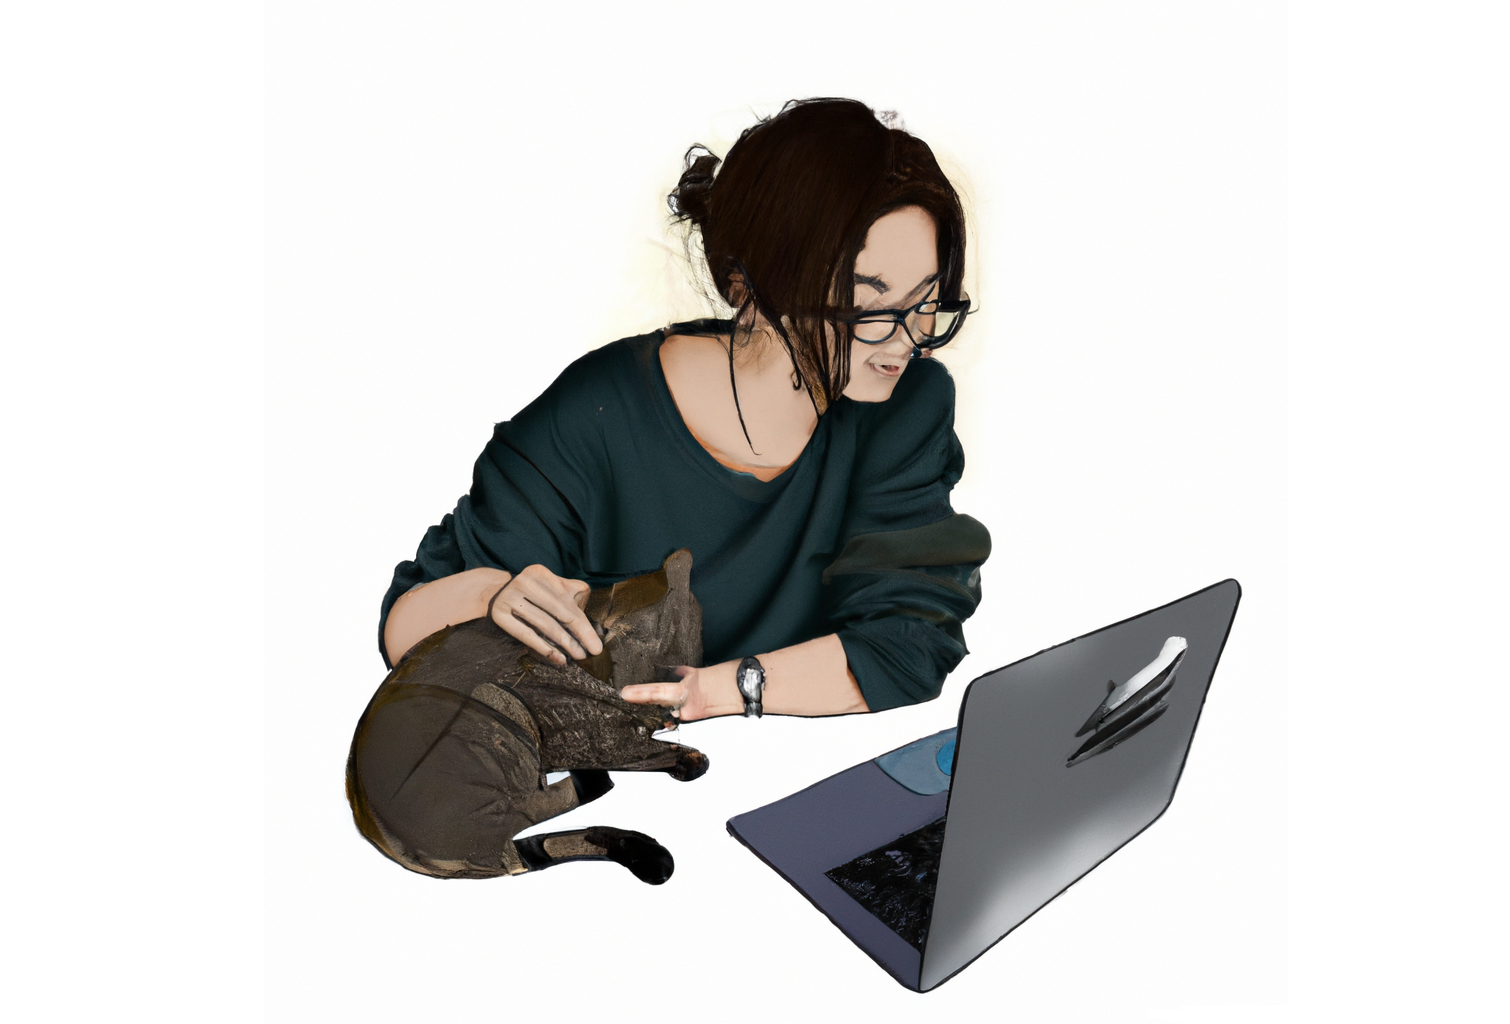
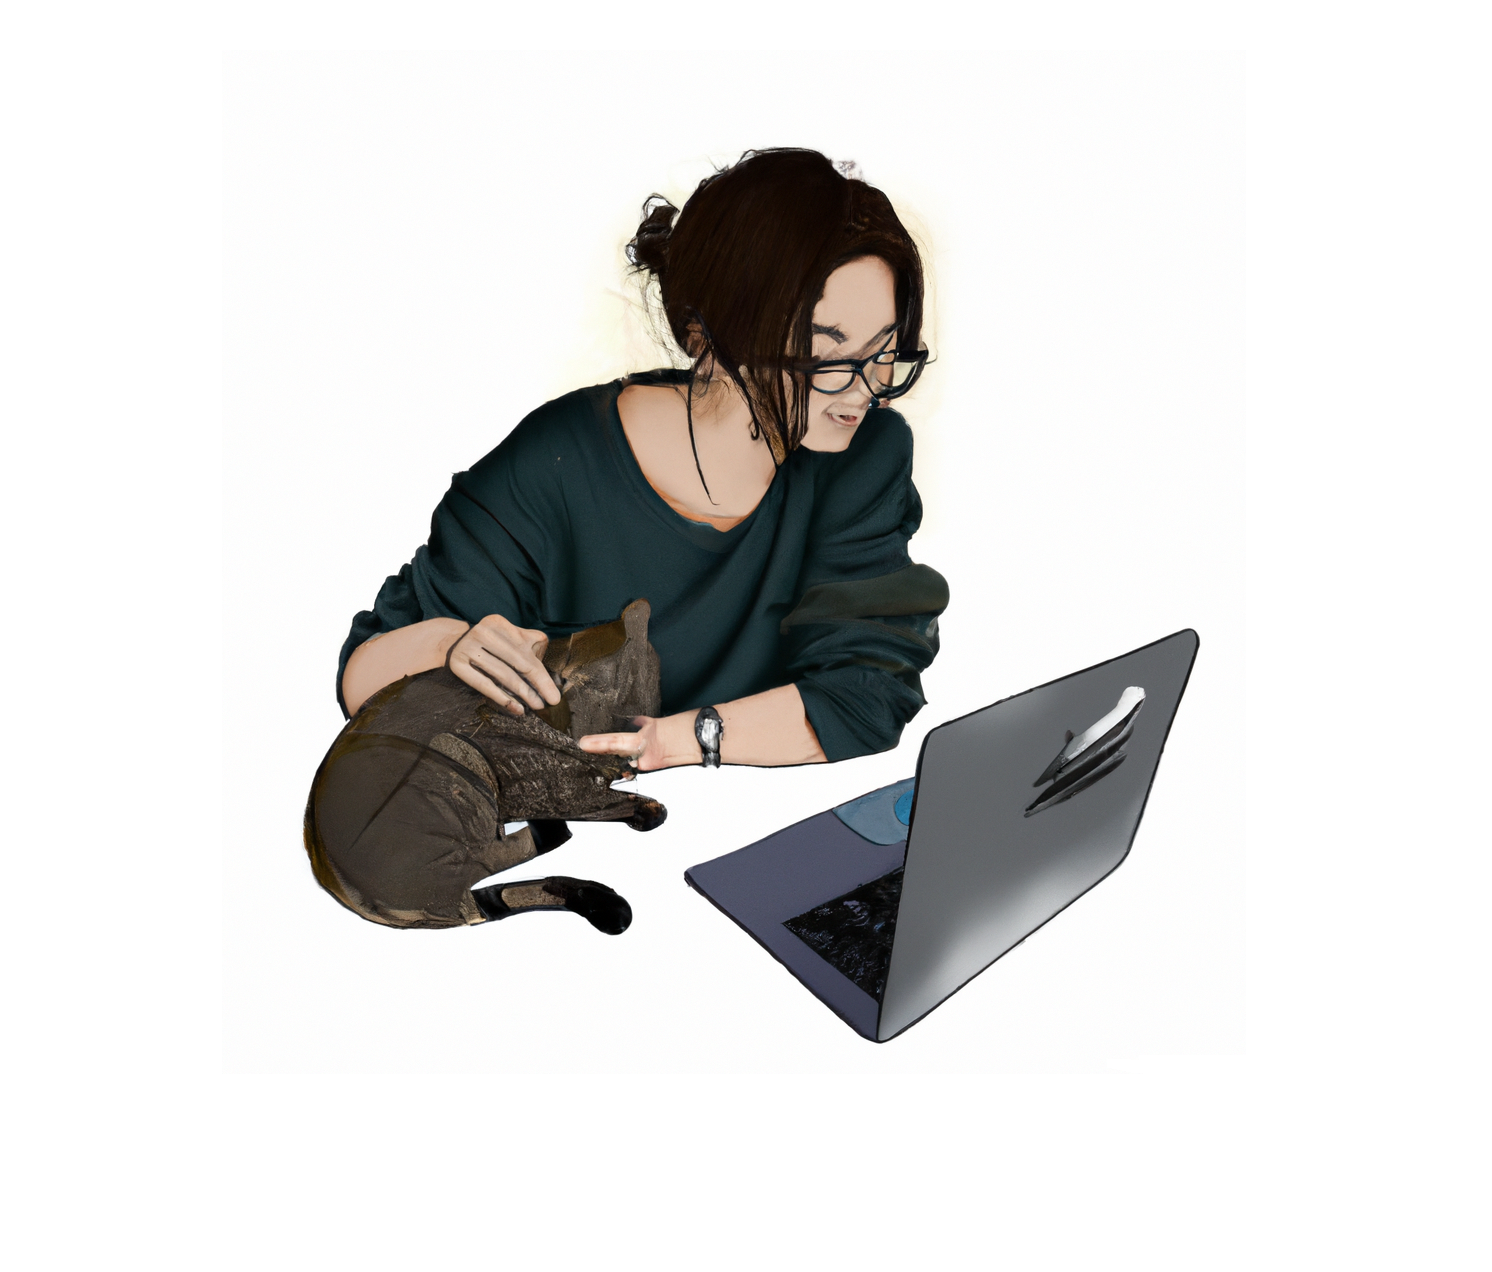
updating projects and thumbnail photo

Changed region(s): [[0.185, 0.0938, 0.8324, 0.9688]]

diff --git a/index.html b/index.html
@@ -109,9 +109,6 @@
             >
           </li>
           <li>
-            <a href="./cats-project" target="_blank">Get a cat by breed</a>
-          </li>
-          <li>
             <a href="./feed-a-star-mole" target="_blank"
               >Feed a star mole - Game</a
             >
